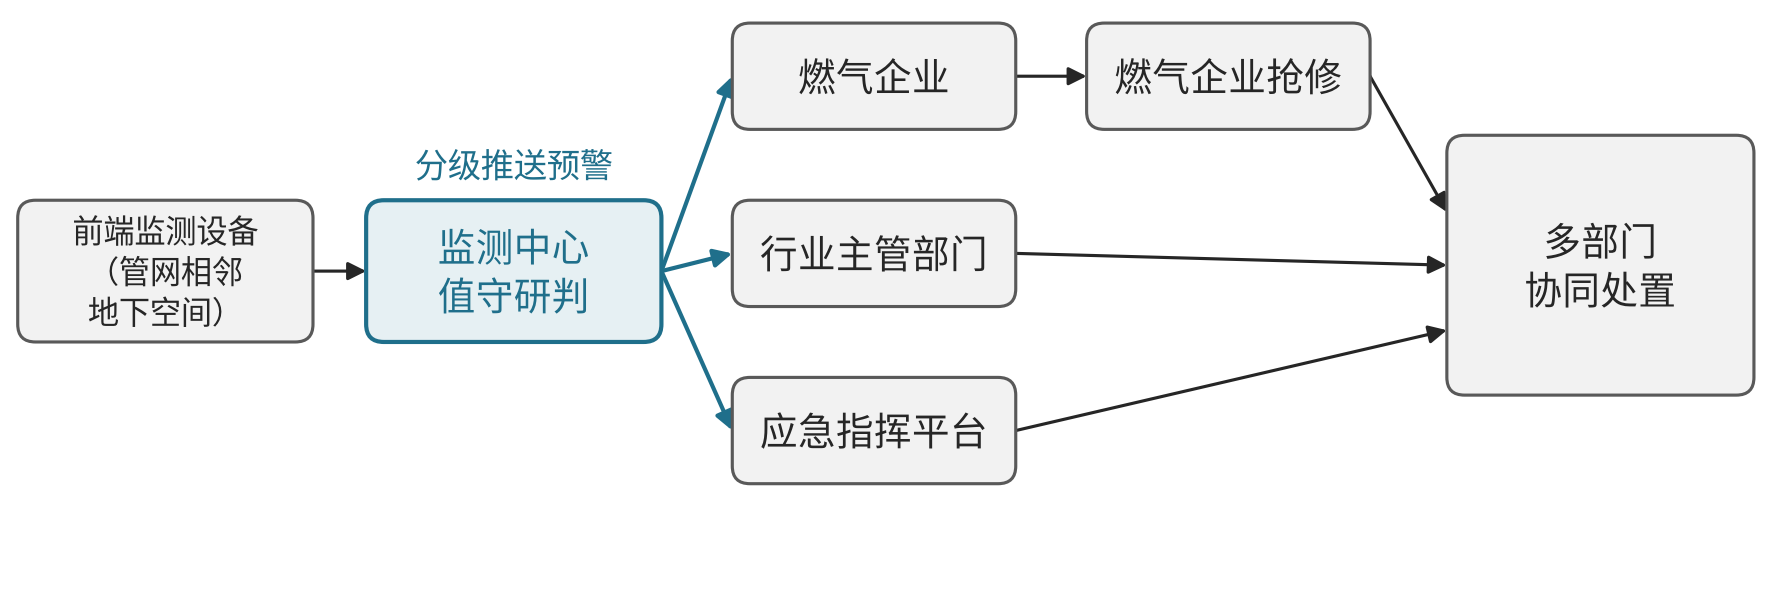
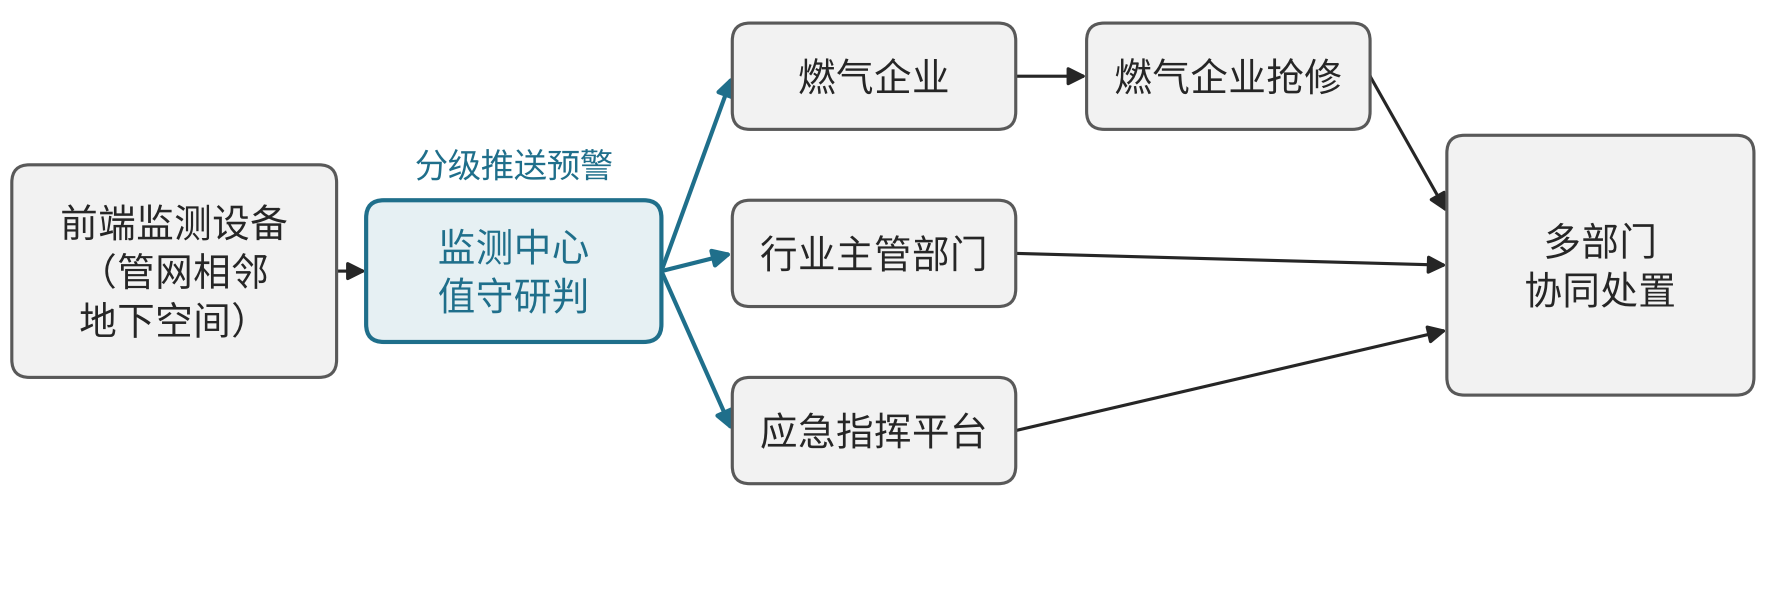
图示：D02-2 加大“前端监测设备（管网相邻地下空间）”框；R02-2 第4框改两行“运营确认后落实／排课及余额”

Changed region(s): [[0.0, 0.3356, 0.1863, 0.6407], [0.0, 0.2746, 0.1863, 0.3051]]

diff --git a/scripts/figures/specs.py b/scripts/figures/specs.py
@@ -24,9 +24,9 @@ def _():
      '资料来源：据国家数据局《城市全域数字化转型典型案例集之四十三｜合肥：统筹推进城市生命线安全工程 提升城市安全韧性水平》（访问日期：2026-10-28）绘制，见本节参考资料[5]；为定性示意，不含数据。')
 def _():
     f = Fig(5.0); y = 2.1; bh = 1.2
-    f.box(0.15, y, 2.5, bh, '前端监测设备\n（管网相邻\n地下空间）', wrapw=False)
+    f.box(0.1, y - 0.3, 2.75, bh + 0.6, '前端监测设备\n（管网相邻\n地下空间）', wrapw=False)
     f.box(3.1, y, 2.5, bh, '监测中心值守研判', accent=True)
-    f.arrow((2.65, y + bh / 2), (3.1, y + bh / 2)); f.text(4.35, y + bh + 0.3, '分级推送预警', fs=8, color=ACCENT)
+    f.arrow((2.85, y + bh / 2), (3.1, y + bh / 2)); f.text(4.35, y + bh + 0.3, '分级推送预警', fs=8, color=ACCENT)
     tg = ['燃气企业', '行业主管部门', '应急指挥平台']
     for i, t in enumerate(tg):
         yy = 3.9 - i * 1.5
@@ -104,7 +104,7 @@ def _():
 
 @fig('T-R02-2', MID, 'R02-体育健身.md', '教练、时间、场地或会员要求变化后', '排课变化的协调流程', 'R02-2-排课变化协调', SELF)
 def _():
-    return chain(['教练、时间、场地或会员要求变化', '查找受影响课次和约定', '准备核查清单、候选安排与通知', '运营确认后落实排课及余额', '跟踪接手及未决事项'],
+    return chain(['教练、时间、场地或会员要求变化', '查找受影响课次和约定', '准备核查清单、候选安排与通知', '运营确认后落实\n排课及余额', '跟踪接手及未决事项'],
                  accent_steps=(1, 2, 4), base='通知已经生成 ≠ 会员已经确认', legend='深青框：智力服务承担的步骤')
 
 # ---------------- I01 ----------------

diff --git a/scripts/figures/figlib.py b/scripts/figures/figlib.py
@@ -141,7 +141,7 @@ def chain(steps, notes=None, feedback=None, base=None, accent_steps=(), box_h=1.
     xs = []
     for i, s in enumerate(steps):
         x = m + i * (bw + gap); xs.append(x)
-        f.box(x, y, bw, box_h, s, accent=i in accent_steps)
+        f.box(x, y, bw, box_h, s, accent=i in accent_steps, wrapw='\n' not in s)
         if i: f.arrow((x - gap, y + box_h / 2), (x, y + box_h / 2))
     if feedback:
         i, j, t = feedback if isinstance(feedback, tuple) else (n - 1, 0, feedback)
